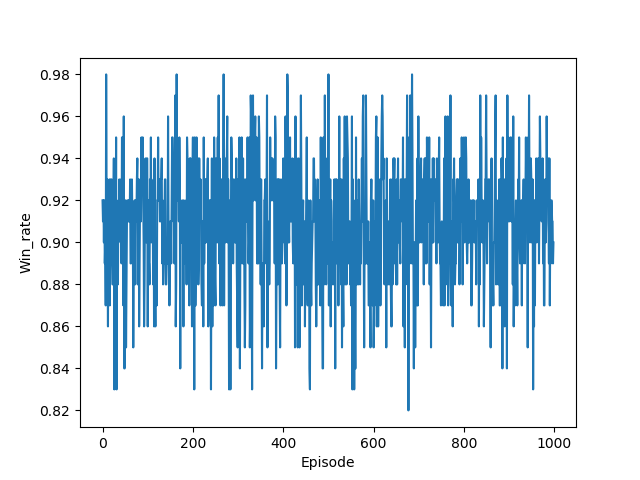
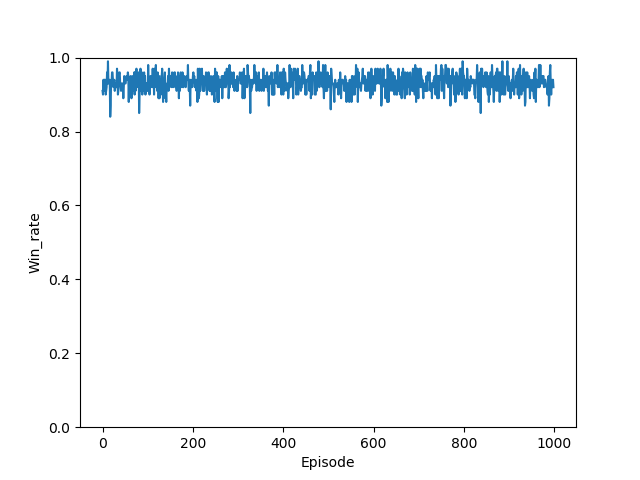
测试结果胜率达到93%，非常稳定

diff --git a/2 Missile_fight/2_DQN/main_DQN_display.py b/2 Missile_fight/2_DQN/main_DQN_display.py
@@ -10,7 +10,7 @@ RL = D3QN.DQN(env.action_dim, env.state_dim,
               e_greedy_end=0.05, e_liner_times=20000, units=50,
               train=False, replace_target_iter=50, gamma=0.95)
 step = 0
-episodes = 1000
+episodes = 100000
 win_rate = []
 win_memory = []
 win = 0
@@ -40,8 +40,9 @@ for episode in range(1, episodes):
         print("Big Episode: %d" % (episode // 100), "Win rate:%.2f" % (win / 100), 'Epsilon:%.2f' % (RL.epsilon))
         win_rate.append(win / 100)
         win = 0
-print('Total Episode : %d' % episodes, 'Average Rate : %.2f' % np.average(win_memory))
+print('Total Episodes : %d ,' % episodes, 'Average Rate : %.2f' % np.average(win_memory))
 plt.plot(win_rate)
+plt.ylim([0, 1])
 plt.xlabel('Episode')
 plt.ylabel('Win_rate')
 plt.savefig('Test_Result.png')
